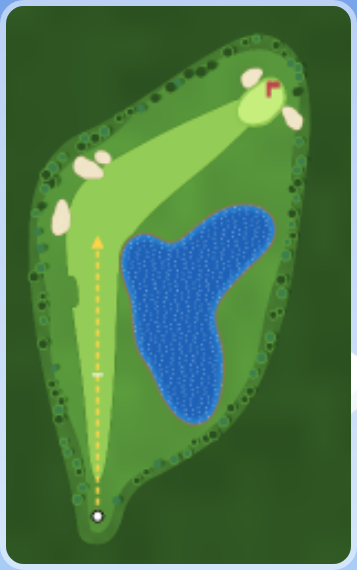
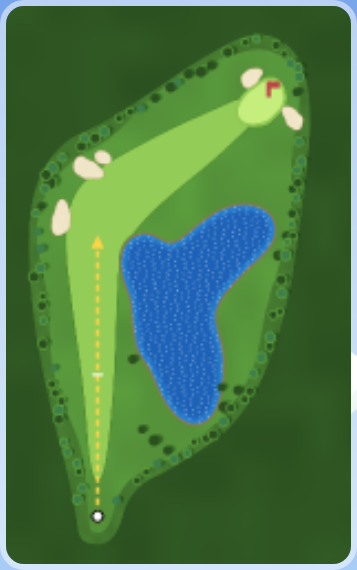
Course: mdw-05 no rough patch; round trees on the lake shore (owner)
Claude-Session: https://claude.ai/code/session_01Rv6Ng9PW7184S78dK5S125

diff --git a/src/holes/mdw-05.js b/src/holes/mdw-05.js
@@ -45,12 +45,17 @@ export default makeMdwHole({
   // the big lake inside the dogleg (owner: "a lot bigger"), wrapping round toward the green
   ponds: [{ cx: 60, cz: -128, rx: 30, rz: 60, rot: -0.3, wob: 0.08, seed: 26, depth: 2.4, lip: 'rough', lipW: 3, blend: 1.0,
     lobes: [{ cx: 36, cz: -181, rx: 15, rz: 18 }, { cx: 78, cz: -178, rx: 24, rz: 20 }, { cx: 102, cz: -200, rx: 28, rz: 20 }] }],
-  // L15: a patch of rough biting into the left of the landing area
-  roughs: [{ cx: -20, cz: -160, rx: 6, rz: 11, rot: -0.1, wob: 0.12, seed: 27 }],
   ob: { x0: -60, x1: 166, z0: -356, z1: 26 },
   forest: { size: [1.0, 1.6], seed: 105, keep: 5, edgeGap: [5, 15], inset: [3, 9], clump: 3, back: false, clear: [{ pts: [{ x: 0, z: 0 }, { x: 40, z: -225 }], w: 10 }] },
   // the big lone tree beyond the corner: the safe drive's aim point (map 19)
-  obstacles: [oak(-36, -238, 1.6)],
+  obstacles: [
+    oak(-36, -238, 1.6),
+    // round trees on the lake's shore (owner: "more natural"), never on the brave carry
+    oak(42, -54, 1.2), oak(52, -47, 1.0), oak(33, -62, 0.9),
+    oak(94, -78, 1.25), oak(104, -90, 1.0), oak(92, -92, 0.9),
+    oak(134, -186, 1.1), oak(140, -200, 0.95),
+    oak(26, -112, 1.0),
+  ],
   scenery: {
     // the edge of the course on the outside of the bend, then away over the bank
     fences: [{ id: 'railFence', points: [[-63, 14], [-63, -270], [-90, -310]] }],
